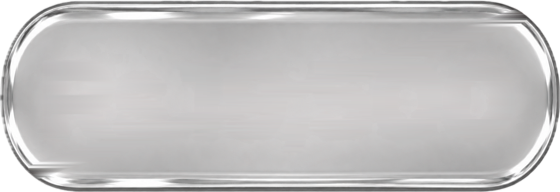
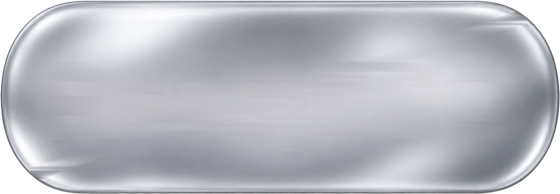
Use new brushed-silver pill background and enlarge crossed price text

diff --git a/styles.css b/styles.css
@@ -2570,7 +2570,7 @@ svg {
   justify-content: space-between;
   align-items: center;
   flex-wrap: nowrap;
-  gap: 12px;
+  gap: 8px;
 }
 
 /* Only the offer ("Today, all of it for Rs 2,499.") gets the green background */
@@ -2579,7 +2579,7 @@ svg {
   overflow: hidden;
   background: #44B28D;
   border-radius: 16px;
-  padding: 14px 20px;
+  padding: 14px 18px;
   display: flex;
   align-items: center;
   gap: 10px;
@@ -2658,14 +2658,14 @@ svg {
 .val-today-bar .val-total-steel {
   font-family: var(--font-head);
   font-weight: 800;
-  font-size: 23px;
+  font-size: 26px;
   letter-spacing: 0;
   line-height: 1;
   color: #EB0008;
   background: url("assets/price-steel-blank.png") center / 100% 100% no-repeat;
   border: 0;
   border-radius: 0;
-  padding: 14px 20px;
+  padding: 14px 15px;
   box-shadow: none;
   overflow: visible;
   text-decoration: none;
@@ -4723,5 +4723,5 @@ svg {
   .val-today-text { font-size: 11.5px; }
   .val-today-price { font-size: 25px; }
   .val-today-bar .val-total-crossed { font-size: 15px; padding: 11px 14px; }
-  .val-today-bar .val-total-steel { font-size: 14px; padding: 11px 16px; }
+  .val-today-bar .val-total-steel { font-size: 16px; padding: 11px 16px; }
 }
